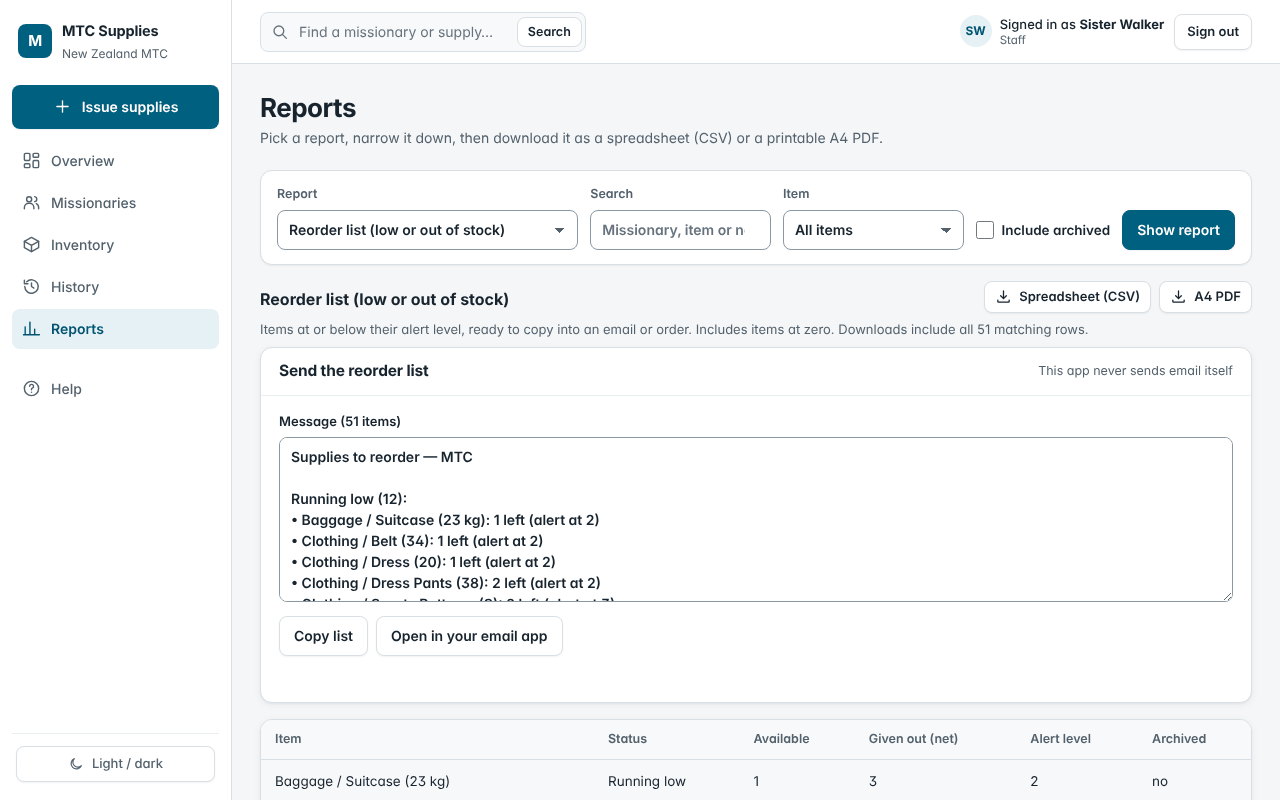
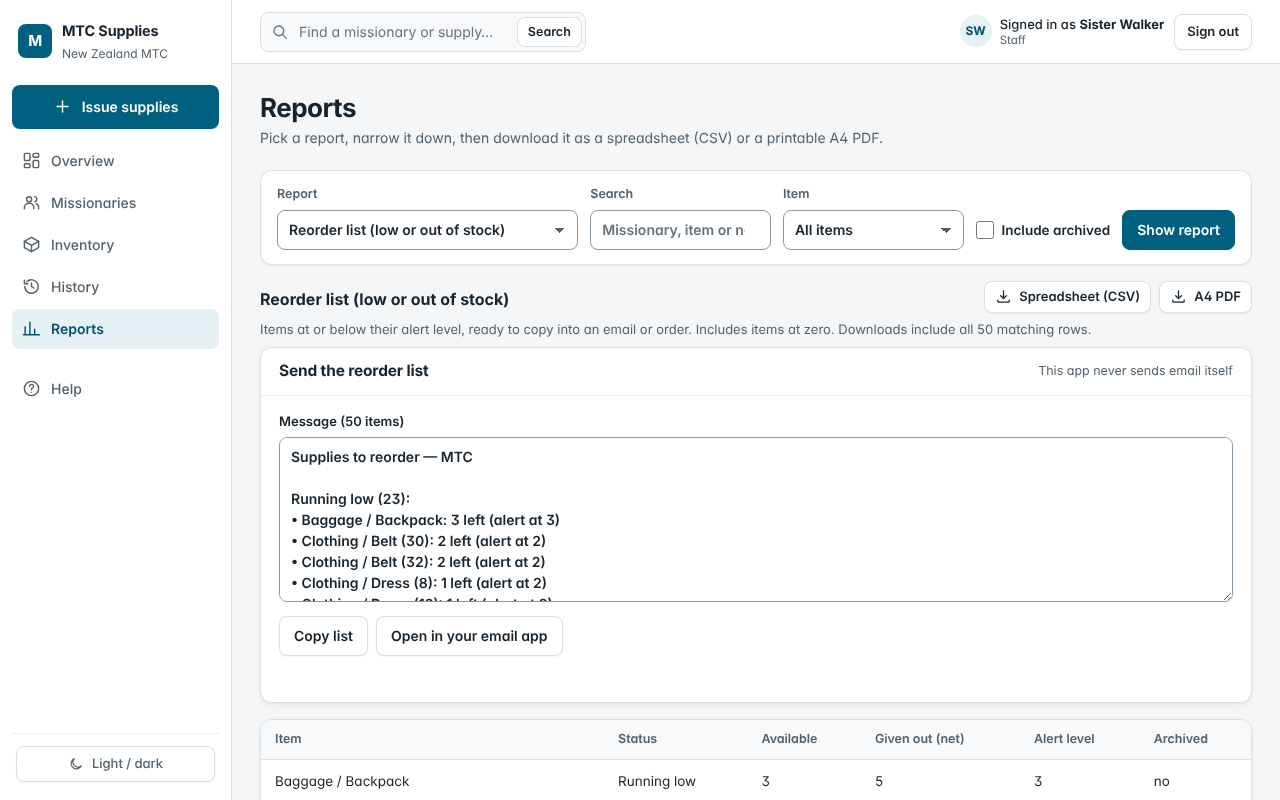
fix: demo data fits Elders and Sisters; quiet issue confirmations
- load_demo_data tags each catalogue line for Elders, Sisters or everyone, so
  demo history never gives an Elder a dress; adds blouses; only staff accounts
  are used as demo actors.
- "Added to issue." is announced to screen readers but no longer shown as
  stray text above the recipient card.
- Report test follows the renamed report families.
- Guide screenshots regenerated from the new demo data.

Claude-Session: https://claude.ai/code/session_015VeVa6VGabDhiffKNcMUMF

diff --git a/static/app.css b/static/app.css
@@ -465,7 +465,7 @@ details.disclosure>summary{color:var(--accent-ink);font-size:13.5px;padding:4px 
 #issue-rows:has(.issue-row)+.empty-draft{display:none}
 #draft-count{font-size:12.5px;color:var(--muted);margin:2px 0 0}
 #issue-feedback:not(:empty){padding:11px 14px;border:1px solid var(--accent-line);background:var(--accent-soft);border-radius:var(--r);margin:0 0 14px;font-weight:500}
-#issue-feedback.quiet{background:none;border:0;padding:0;margin:0 0 8px;color:var(--muted);font-size:12.5px;font-weight:400}
+#issue-feedback.quiet{position:absolute;width:1px;height:1px;padding:0;margin:-1px;overflow:hidden;clip:rect(0 0 0 0);white-space:nowrap;border:0}
 #issue-feedback.warning{background:var(--warn-soft);border-color:var(--warn-line);color:var(--ink)}
 #shortage-review{padding:18px;border:1px solid var(--warn-line);background:var(--card);border-radius:var(--r-lg);box-shadow:var(--shadow)}
 #shortage-review h2{margin-bottom:12px}

diff --git a/apps/operations/management/commands/load_demo_data.py b/apps/operations/management/commands/load_demo_data.py
@@ -19,6 +19,7 @@ from datetime import datetime, time, timedelta
 from django.contrib.auth import get_user_model
 from django.core.management.base import BaseCommand, CommandError
 from django.db import transaction
+from django.db.models import Q
 from django.utils import timezone
 
 GIVEN_F = ["Aroha", "Ana", "Mele", "Grace", "Lucy", "Emma", "Leilani", "Sina", "Hannah", "Ruby",
@@ -39,39 +40,40 @@ LANGUAGES = ["English", "English", "English", "English (ESL)", "Samoan", "Tongan
 TOWNS = ["Hamilton", "Tauranga", "Apia", "Nuku'alofa", "Brisbane", "Mesa", "Auckland", "Suva",
          "Rotorua", "Provo", "Christchurch", "Lae"]
 
-# (category, name, sizes, typical stock per size, alert level)
+# (category, name, sizes, typical stock per size, alert level, who: "M" Elders, "F" Sisters, "" everyone)
 CATALOGUE = [
-    ("Clothing", "White Shirts", ["38 S", "38 L", "40 S", "40 L", "42 S", "42 L", "44 L", "46 L"], 12, 4),
-    ("Clothing", "Dress Pants", ["30", "32", "34", "36", "38", "40"], 6, 2),
-    ("Clothing", "Belt", ["30", "32", "34", "36", "38", "40", "42"], 5, 2),
-    ("Clothing", "Tie", [""], 25, 6),
-    ("Clothing", "Dress", ["6", "8", "10", "12", "14", "16", "18", "20"], 4, 2),
-    ("Clothing", "Skirt", ["8", "10", "12", "14", "16"], 4, 2),
-    ("Clothing", "Socks", ["S", "M", "L"], 20, 6),
-    ("Clothing", "Sports Tops", ["S", "M", "L", "XL", "2XL", "3XL"], 8, 3),
-    ("Clothing", "Sports Bottoms", ["S", "M", "L", "XL", "2XL", "3XL"], 8, 3),
-    ("Clothing", "Winter Jacket", ["S", "M", "L", "XL"], 3, 1),
-    ("Shoes", "Dress Shoes (men)", ["7", "8", "9", "10", "11", "12"], 4, 2),
-    ("Shoes", "Dress Shoes (women)", ["5", "6", "7", "8", "9"], 4, 2),
-    ("Shoes", "Sports Shoes", ["6", "7", "8", "9", "10", "11"], 4, 2),
-    ("Hygiene", "Soap", [""], 80, 15),
-    ("Hygiene", "Shampoo & Conditioner", [""], 40, 10),
-    ("Hygiene", "Toothpaste", [""], 60, 12),
-    ("Hygiene", "Toothbrush", [""], 60, 12),
-    ("Hygiene", "Deodorant", [""], 45, 10),
-    ("Hygiene", "Razor", [""], 30, 8),
-    ("Hygiene", "Feminine Hygiene", ["Regular", "Super"], 30, 8),
-    ("Hygiene", "Lip Balm", [""], 25, 6),
-    ("Medical", "Pain Relief Tablets", [""], 30, 8),
-    ("Medical", "Plasters", [""], 40, 10),
-    ("Medical", "Cold & Flu Tablets", [""], 20, 6),
-    ("Medical", "Antiseptic Cream", [""], 15, 5),
-    ("Medical", "Sunscreen", [""], 20, 6),
-    ("Medical", "Knee Brace", ["S/M", "L/XL"], 3, 1),
-    ("Baggage", "Suitcase", ["23 kg", "7 kg carry-on"], 6, 2),
-    ("Baggage", "Backpack", [""], 8, 3),
-    ("Stationery", "Study Journal", [""], 50, 10),
-    ("Stationery", "Pens (pack)", [""], 40, 10),
+    ("Clothing", "White Shirts", ["38 S", "38 L", "40 S", "40 L", "42 S", "42 L", "44 L", "46 L"], 12, 4, "M"),
+    ("Clothing", "Dress Pants", ["30", "32", "34", "36", "38", "40"], 6, 2, "M"),
+    ("Clothing", "Belt", ["30", "32", "34", "36", "38", "40", "42"], 5, 2, "M"),
+    ("Clothing", "Tie", [""], 25, 6, "M"),
+    ("Clothing", "Blouse", ["8", "10", "12", "14", "16", "18"], 5, 2, "F"),
+    ("Clothing", "Dress", ["6", "8", "10", "12", "14", "16", "18", "20"], 4, 2, "F"),
+    ("Clothing", "Skirt", ["8", "10", "12", "14", "16"], 4, 2, "F"),
+    ("Clothing", "Socks", ["S", "M", "L"], 20, 6, ""),
+    ("Clothing", "Sports Tops", ["S", "M", "L", "XL", "2XL", "3XL"], 8, 3, ""),
+    ("Clothing", "Sports Bottoms", ["S", "M", "L", "XL", "2XL", "3XL"], 8, 3, ""),
+    ("Clothing", "Winter Jacket", ["S", "M", "L", "XL"], 3, 1, ""),
+    ("Shoes", "Dress Shoes (men)", ["7", "8", "9", "10", "11", "12"], 4, 2, "M"),
+    ("Shoes", "Dress Shoes (women)", ["5", "6", "7", "8", "9"], 4, 2, "F"),
+    ("Shoes", "Sports Shoes", ["6", "7", "8", "9", "10", "11"], 4, 2, ""),
+    ("Hygiene", "Soap", [""], 80, 15, ""),
+    ("Hygiene", "Shampoo & Conditioner", [""], 40, 10, ""),
+    ("Hygiene", "Toothpaste", [""], 60, 12, ""),
+    ("Hygiene", "Toothbrush", [""], 60, 12, ""),
+    ("Hygiene", "Deodorant", [""], 45, 10, ""),
+    ("Hygiene", "Razor", [""], 30, 8, "M"),
+    ("Hygiene", "Feminine Hygiene", ["Regular", "Super"], 30, 8, "F"),
+    ("Hygiene", "Lip Balm", [""], 25, 6, ""),
+    ("Medical", "Pain Relief Tablets", [""], 30, 8, ""),
+    ("Medical", "Plasters", [""], 40, 10, ""),
+    ("Medical", "Cold & Flu Tablets", [""], 20, 6, ""),
+    ("Medical", "Antiseptic Cream", [""], 15, 5, ""),
+    ("Medical", "Sunscreen", [""], 20, 6, ""),
+    ("Medical", "Knee Brace", ["S/M", "L/XL"], 3, 1, ""),
+    ("Baggage", "Suitcase", ["23 kg", "7 kg carry-on"], 6, 2, ""),
+    ("Baggage", "Backpack", [""], 8, 3, ""),
+    ("Stationery", "Study Journal", [""], 50, 10, ""),
+    ("Stationery", "Pens (pack)", [""], 40, 10, ""),
 ]
 NOTES = ["", "", "", "", "Arrival pack", "Replacement — old pair worn out", "Swapped for a larger size"]
 DELIVERY = ["Delivery from the distribution centre", "Donation from a local ward", "Monthly order"]
@@ -109,7 +111,8 @@ class Command(BaseCommand):
                 "refusing: this installation already has data. Demo data only goes into an "
                 "empty trial installation, never alongside a real roster.")
         rng = random.Random(options["seed"])
-        staff = [actor] + list(User.objects.filter(is_active=True).exclude(pk=actor.pk)[:3])
+        others = User.objects.filter(Q(is_staff=True) | Q(is_superuser=True), is_active=True)
+        staff = [actor] + list(others.exclude(pk=actor.pk).order_by("username")[:3])
         with transaction.atomic():
             people = self._people(rng, actor, max(1, options["people"]))
             items = self._items(rng, actor, start=timezone.now() - timedelta(days=options["days"] + 1))
@@ -154,7 +157,7 @@ class Command(BaseCommand):
         from apps.inventory.models import StockMovement
 
         items = []
-        for category, name, sizes, typical, alert in CATALOGUE:
+        for category, name, sizes, typical, alert, who in CATALOGUE:
             for size in sizes:
                 qty = max(0, int(rng.gauss(typical, typical * 0.35)))
                 item = inventory.create_item(
@@ -162,6 +165,7 @@ class Command(BaseCommand):
                     reason="Opening stock (demo)", idempotency_key=f"demo-open-{uuid.uuid4().hex}")
                 item.low_threshold = alert
                 item.save(update_fields=["low_threshold"])
+                item.demo_for = who
                 items.append(item)
         # Openings happened before the history so every ledger chain stays in order.
         StockMovement.objects.filter(kind=StockMovement.OPENING).update(created_at=start)
@@ -174,6 +178,7 @@ class Command(BaseCommand):
         from apps.issuing import services as issuing
         from apps.issuing.models import Issue
 
+        suits = {item.pk: item.demo_for for item in items}  # Elders never get a dress, and so on
         tz = timezone.get_current_timezone()
         today = timezone.localdate()
         arrived = [p for p in people if p.arrival_status == "arrived"]
@@ -187,9 +192,10 @@ class Command(BaseCommand):
         moments.sort(key=lambda pair: pair[0])
         count = 0
         for at, person in moments:
-            in_stock = list(Item.objects.filter(on_hand__gt=0))
+            who = "F" if person.title_prefix == "Sister" else "M"
+            in_stock = [i for i in Item.objects.filter(on_hand__gt=0) if suits.get(i.pk) in ("", who)]
             if not in_stock:
-                break
+                continue
             picks = rng.sample(in_stock, k=min(len(in_stock), rng.choice([1, 2, 2, 3, 4])))
             lines = [{"item_id": str(i.pk), "quantity": min(i.on_hand, rng.choice([1, 1, 1, 2]))} for i in picks]
             try:

diff --git a/tests/browser/test_transfers_reports.py b/tests/browser/test_transfers_reports.py
@@ -134,7 +134,7 @@ def test_report_families_serve_csv_and_pdf(page, live_server, externals):
             page.click('[data-report-pdf]')
         assert open(dl2.value.path(), "rb").read(4) == b"%PDF"
     page.goto(f"{live_server.url}/reports/")
-    assert "Available stock" in page.content()
+    assert "Stock on hand now" in page.content()
     page.goto(f"{live_server.url}/reports/?family=intake")
-    assert "Arrivals overview" in page.content()
+    assert "Arrivals and departures" in page.content()
     assert_no_internet(externals)
